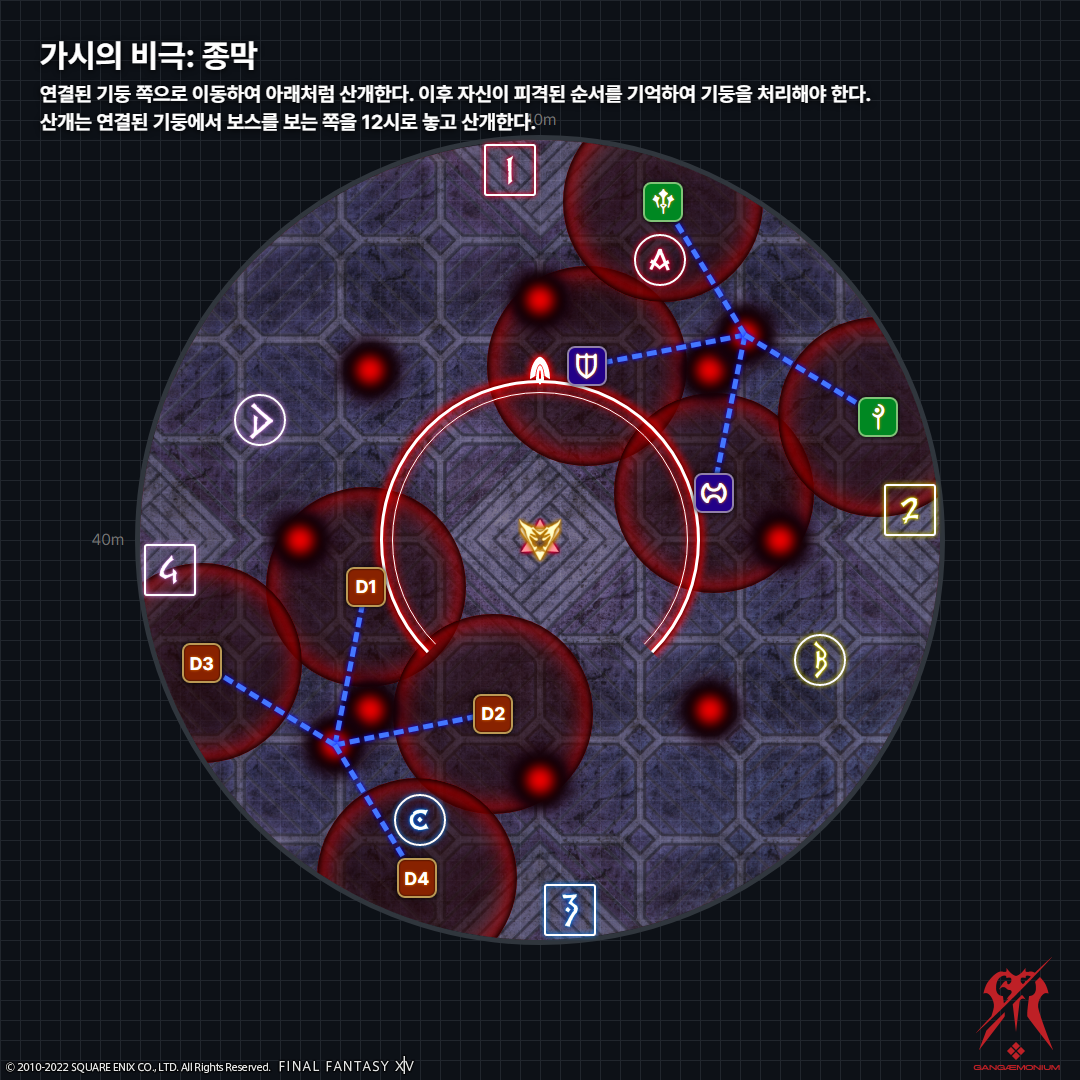
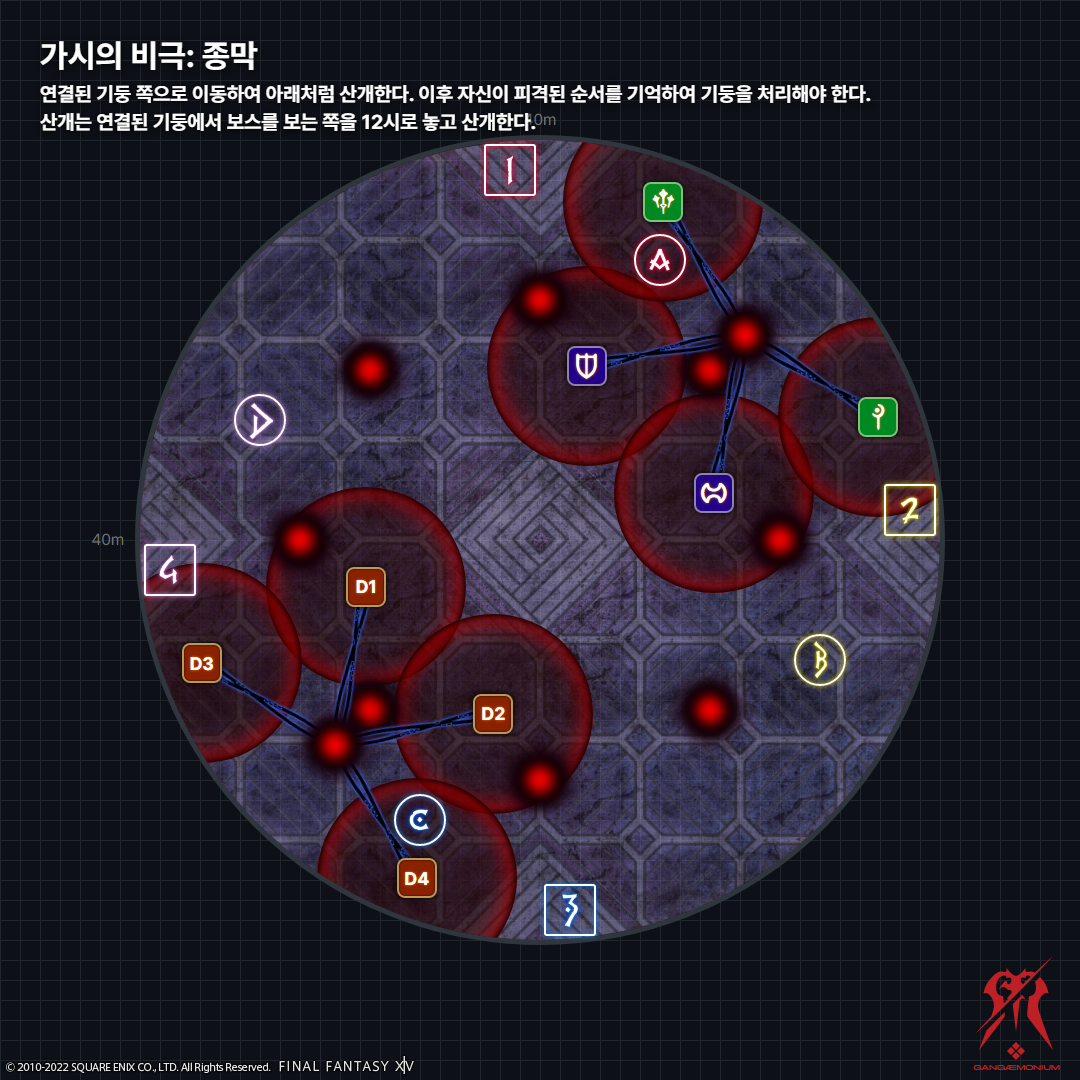
update `p4s1`

diff --git a/p4s_I/README.md b/p4s_I/README.md
@@ -166,3 +166,6 @@ https://youtu.be/JlpPGklQF0o
 # 그 외
 ## 마법검 벨로네: 폭발 처리 (동선 고정)
 ![/p4s_I/images/0127.png](https://raw.githubusercontent.com/Gangaemonium/Asphodelos/main/p4s_I/images/0127.png)
+## 마법검 벨로네: 폭발 처리 (동선 고정 - 동시 폭발)
+![/p4s_I/images/0138.png](https://raw.githubusercontent.com/Gangaemonium/Asphodelos/main/p4s_I/images/0138.png)
+> 초기에 사용 시 대미지 경감 관련 조율이 필수적이므로 구성이 고정되지 않는 공팟보다 공대 사용을 추천
